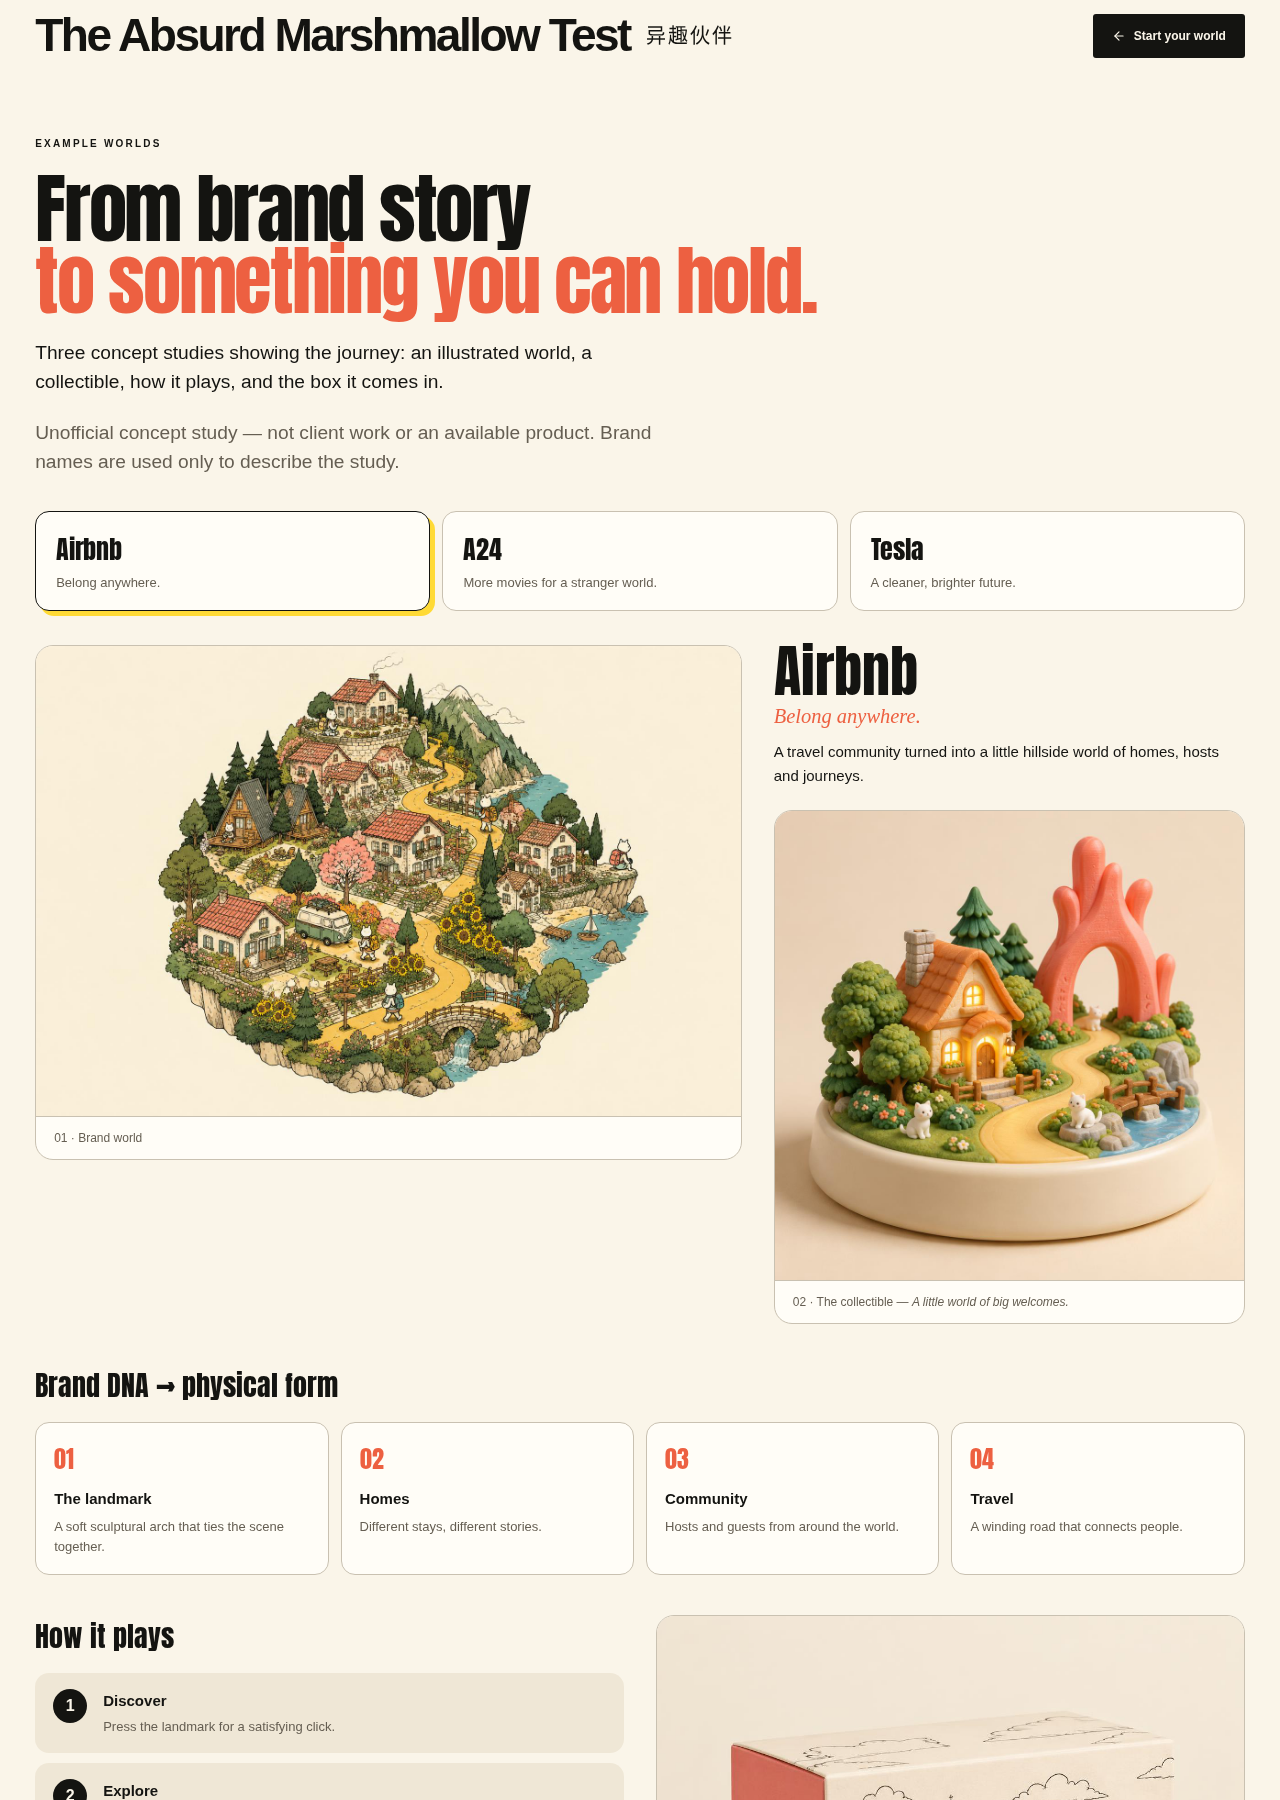
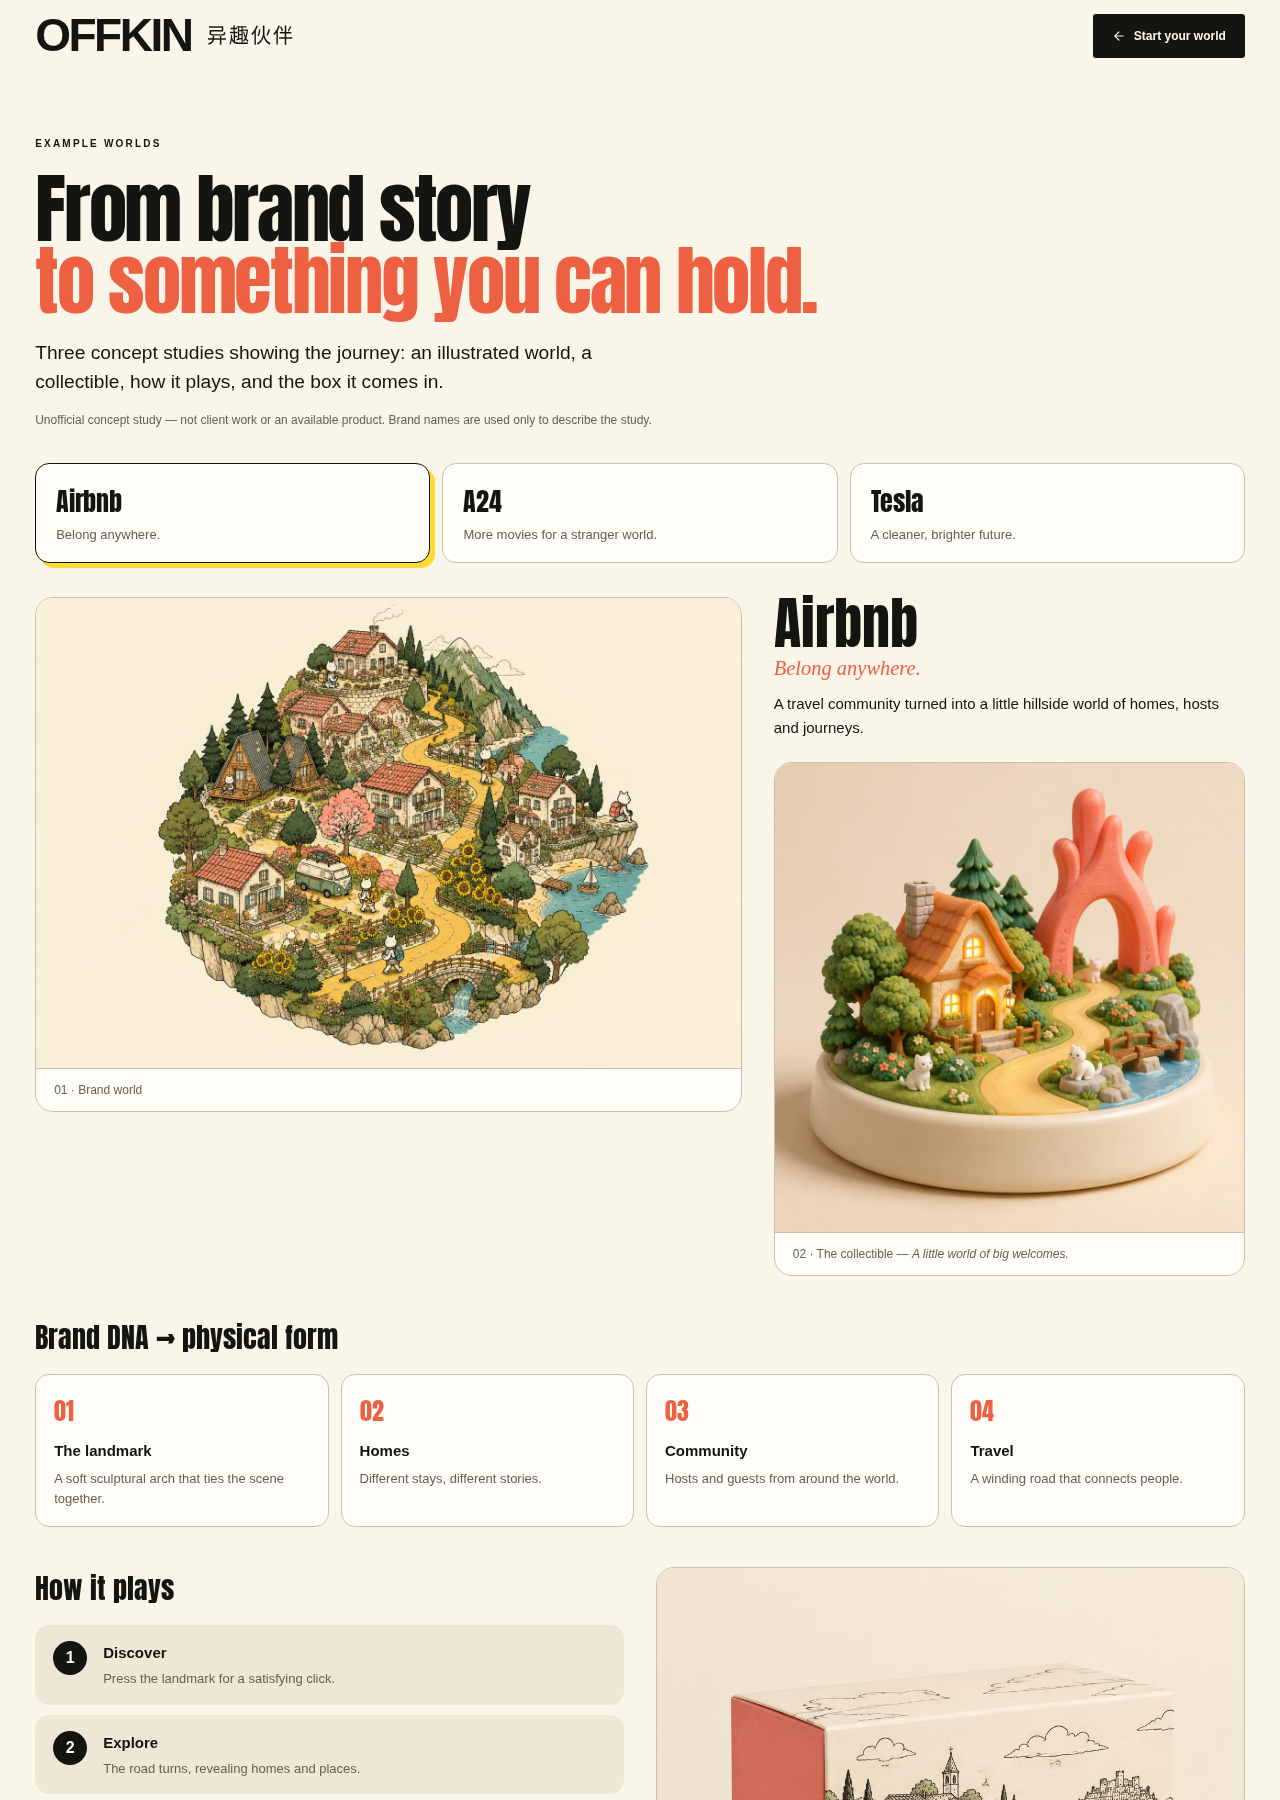
Changes

diff --git a/roadmap.md b/roadmap.md
@@ -1,7 +1,7 @@
 # Roadmap
 
-- [ ] Simple mode: hide refinement composer / Edit details / element swaps on results
-- [ ] Showcase page (/showcase) with regenerated Airbnb/A24/Tesla studies + home teaser
-- [ ] Home cleanup: remove yellow notes, consolidate disclaimer, polish
-- [ ] Ambient sound toggle (ElevenLabs) — BLOCKED: ElevenLabs account has an unpaid invoice (402)
-- [ ] Tests, build, desktop/mobile screenshots
+- [x] Simple mode: hide refinement composer / Edit details on results
+- [x] Showcase page (/showcase) with regenerated Airbnb/A24/Tesla studies + home teaser
+- [x] Home cleanup: yellow paused banner replaced, fine print folded into Details
+- [ ] Ambient sound toggle (ElevenLabs) — BLOCKED: ElevenLabs account has an unpaid invoice
+- [x] Tests, build, desktop/mobile screenshots
